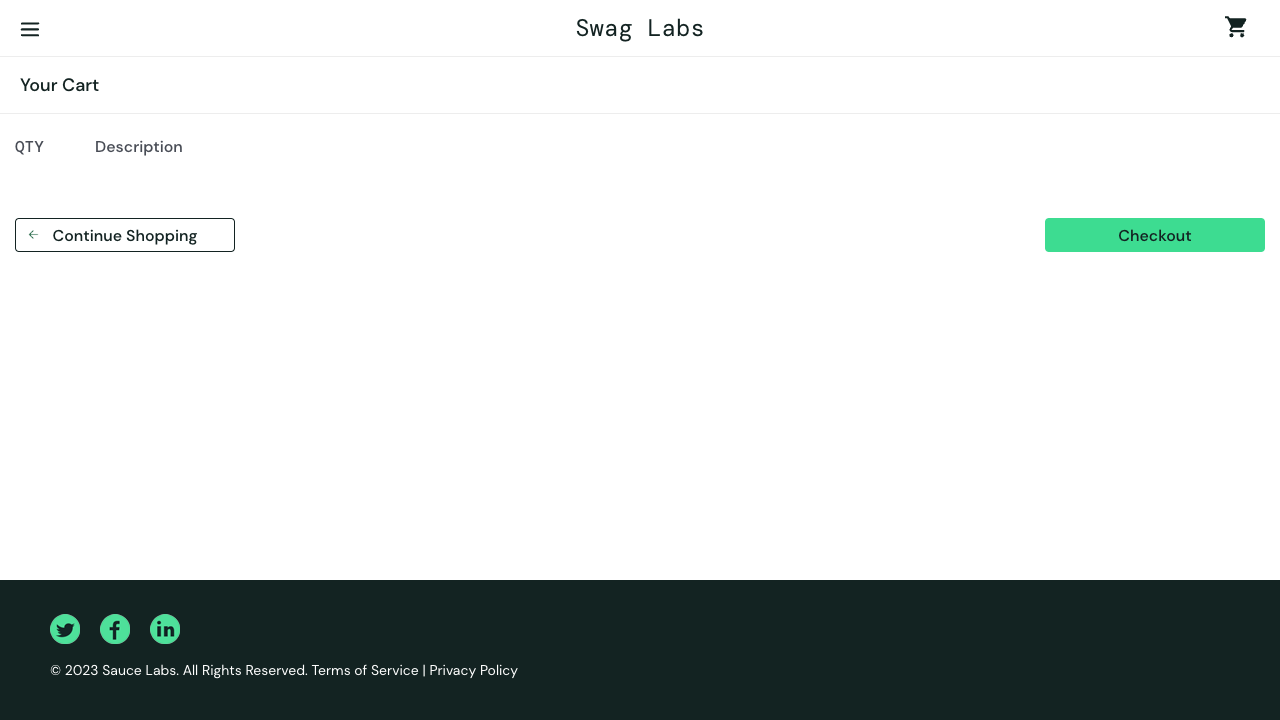
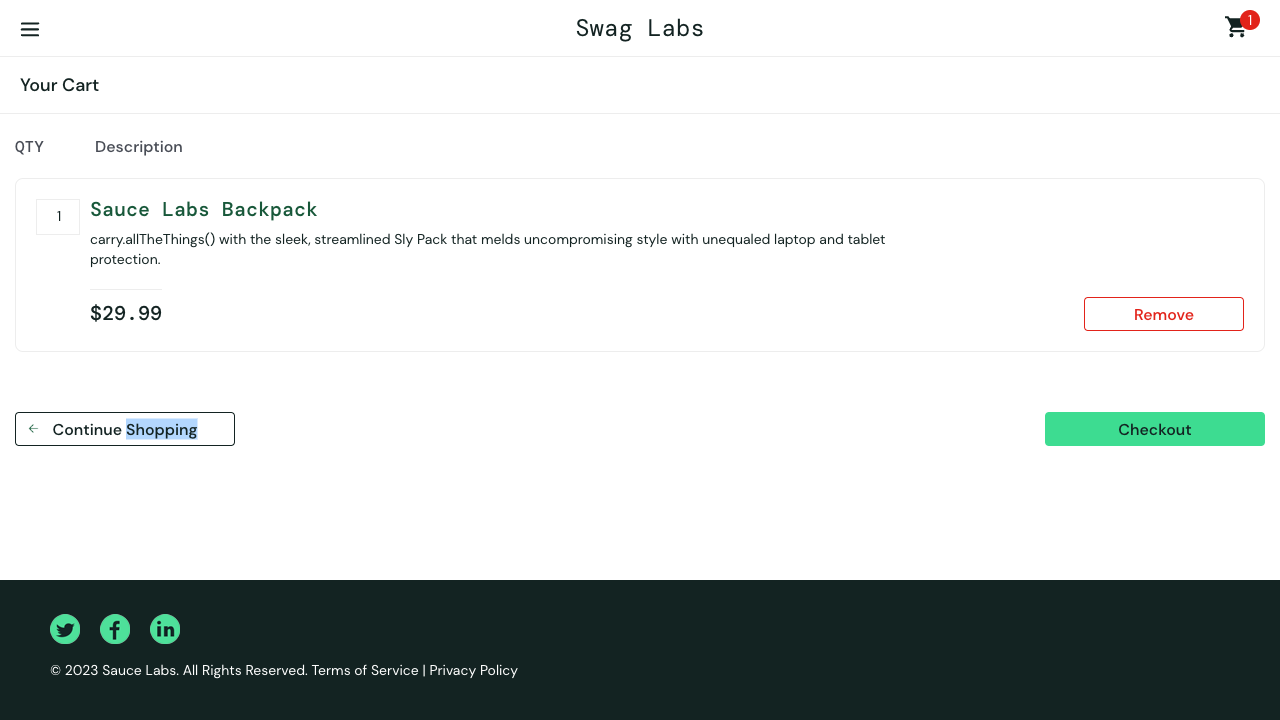
order Sauce Labs Backpack and Sauce Labs Bike Light Rules

diff --git a/step_definitions/steps.js b/step_definitions/steps.js
@@ -45,3 +45,36 @@ Then('the cart should contain a Sauce Labs Backpack', () => {
   I.wait(2);
 });
 
+Given('I am on the Swag Labs Cart Page', () => {
+  I.amOnPage('/cart.html');
+});
+
+When('I Click Continue Shooping Button', () => {
+  I.wait(2);
+  I.click('//button[@data-test="continue-shopping"]');
+  I.wait(1);
+});
+
+When('I click Sauce Labs Bike Light', () => {
+  I.click('//*[@id="item_0_title_link"]/div')
+  I.wait(1);
+});
+
+Then('I should see details Sauce Labs Bike Light', () => {
+  I.see('Sauce Labs Bike Light');
+  I.see("A red light isn't the desired state in testing but it sure helps when riding your bike at night. Water-resistant with 3 lighting modes, 1 AAA battery included.");
+  I.see('$9.99');
+});
+
+Then('I add a Sauce Labs Bike Light to my cart', () => {
+  I.click('//button[@data-test="add-to-cart-sauce-labs-bike-light"]');
+});
+
+Then('the cart should contain a Sauce Labs Backpack and Sauce Labs Bike Light to my cart', () => {
+  I.click('//*[@id="shopping_cart_container"]/a');
+  I.see('Sauce Labs Backpack');
+  I.see('Sauce Labs Bike Light')
+  I.wait(2);
+});
+
+
